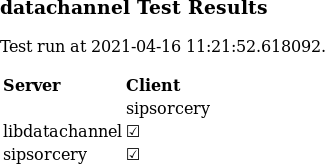
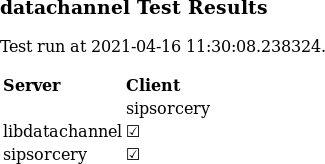
Automated echo test results.

Changed region(s): [[0.6462, 0.2439, 0.8615, 0.3354], [0.8923, 0.2439, 0.9846, 0.3354]]

diff --git a/datachannel_test_results.md b/datachannel_test_results.md
@@ -1,5 +1,5 @@
 ## echo Test Results
-Test run at 2021-04-16 11:21:53.519947
+Test run at 2021-04-16 11:30:09.336439
 
 | Server      | Client      |
 |-------------|-------------|
